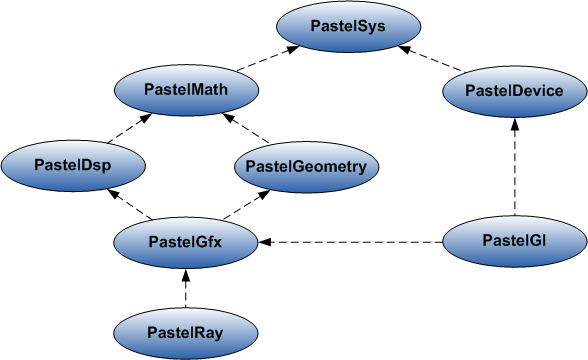
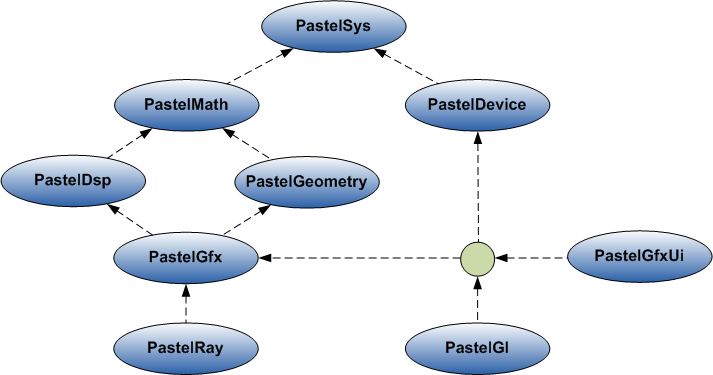
Updated documentation. Did some remaining in GfxUi library.

diff --git a/pastel/gfxui/gfx_ui.h b/pastel/gfxui/gfx_ui.h
@@ -1,7 +1,9 @@
+// Description: A simple graphical user interface
+
 #ifndef PASTEL_GFX_UI_H
 #define PASTEL_GFX_UI_H
 
-#include "pastel/gfx_ui/gfxuilibrary.h"
+#include "pastel/gfxui/gfxuilibrary.h"
 
 #include "pastel/gfx/gfxrenderer.h"
 #include "pastel/gfx/color.h"

diff --git a/example/LeastSquares/leastsquares.cpp b/example/LeastSquares/leastsquares.cpp
@@ -13,7 +13,7 @@
 #include "pastel/gl/glgfxrenderer.h"
 #include "pastel/gfx/gfxrenderer_tools.h"
 
-#include "pastel/gfx_ui/gfx_ui.h"
+#include "pastel/gfxui/gfx_ui.h"
 
 #include "pastel/geometry/convexhull.h"
 #include "pastel/geometry/diameter.h"

diff --git a/example/NearestNeighbour/nearestneighbour.cpp b/example/NearestNeighbour/nearestneighbour.cpp
@@ -7,7 +7,7 @@
 
 #include "pastel/gfx/gfxrenderer_tools.h"
 
-#include "pastel/gfx_ui/gfx_ui.h"
+#include "pastel/gfxui/gfx_ui.h"
 
 #include "pastel/device/devicesystem.h"
 #include "pastel/device/gfxdevice.h"

diff --git a/example/ConvexHull/convexhull.cpp b/example/ConvexHull/convexhull.cpp
@@ -11,7 +11,7 @@
 
 #include "pastel/gfx/gfxrenderer_tools.h"
 
-#include "pastel/gfx_ui/gfx_ui.h"
+#include "pastel/gfxui/gfx_ui.h"
 
 #include "pastel/geometry/convexhull.h"
 

diff --git a/pastel/gfxui/gfx_ui.cpp b/pastel/gfxui/gfx_ui.cpp
@@ -1,4 +1,4 @@
-#include "pastel/gfx_ui/gfx_ui.h"
+#include "pastel/gfxui/gfx_ui.h"
 
 #include "pastel/device/devicesystem.h"
 
